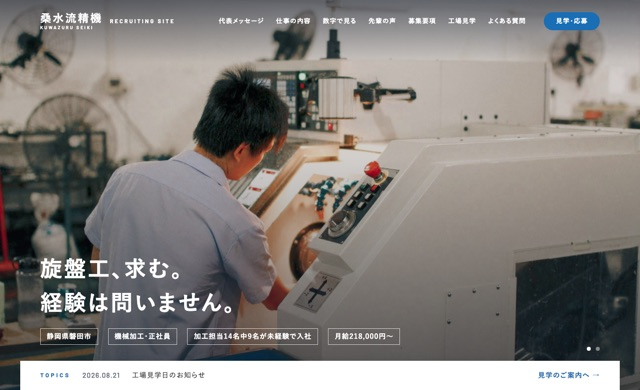
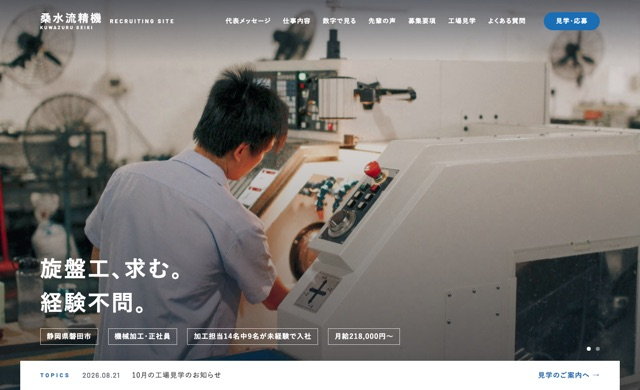
見本LPの町工場の本文を、同業の採用ページの言い回しに合わせて書き直す

Changed region(s): [[0.125, 0.7385, 0.375, 0.8], [0.1875, 0.9538, 0.3438, 0.9846], [0.3438, 0.0308, 0.4688, 0.0615]]

diff --git a/lp-samples/sample6/index.html b/lp-samples/sample6/index.html
@@ -9,7 +9,7 @@
 <meta property="og:type" content="website">
 <meta property="og:site_name" content="桑水流精機 採用サイト">
 <meta property="og:title" content="採用情報｜桑水流精機株式会社｜RECRUITING SITE">
-<meta property="og:description" content="旋盤工、求む。経験は問いません。磐田の町工場で機械加工の仲間を募集しています。">
+<meta property="og:description" content="旋盤工、求む。経験不問。磐田の町工場で機械加工の仲間を募集しています。">
 <meta name="twitter:card" content="summary">
 <link rel="icon" href="https://cdn.jsdelivr.net/npm/@fortawesome/fontawesome-free@6.7.2/svgs/solid/gear.svg" type="image/svg+xml">
 <link rel="stylesheet" href="https://cdnjs.cloudflare.com/ajax/libs/font-awesome/6.7.2/css/all.min.css" integrity="sha512-Evv84Mr4kqVGRNSgIGL/F/aIDqQb7xQ2vcrdIwxfjThSH8CSR7PBEakCr51Ck+w+/U6swU2Im1vVX0SVk9ABhg==" crossorigin="anonymous" referrerpolicy="no-referrer">
@@ -303,7 +303,7 @@ h1,h2,h3,.box p,.stats-note,.txtarea p,.number--item p,.post-people p,.p-welfare
     <a class="header--logo" href="#top"><b>桑水流精機<small>KUWAZURU SEIKI</small></b><span>RECRUITING SITE</span></a>
     <nav class="gnav--menu" id="gnav" aria-label="ページ内の案内">
       <a class="gnav--link" href="#message">代表メッセージ</a>
-      <a class="gnav--link" href="#work">仕事の内容</a>
+      <a class="gnav--link" href="#work">仕事内容</a>
       <a class="gnav--link" href="#number">数字で見る</a>
       <a class="gnav--link" href="#people">先輩の声</a>
       <a class="gnav--link" href="#recruit">募集要項</a>
@@ -325,23 +325,23 @@ h1,h2,h3,.box p,.stats-note,.txtarea p,.number--item p,.post-people p,.p-welfare
     <div class="pagination" aria-hidden="true"><span class="item is-active"></span><span class="item"></span></div>
   </div>
   <div class="hero-txtwrap">
-    <h1>旋盤工、求む。<br>経験は問いません。</h1>
+    <h1>旋盤工、求む。<br>経験不問。</h1>
     <ul class="hero--txt"><li>静岡県磐田市</li><li>機械加工・正社員</li><li>加工担当<span class="nw">14名</span>中<span class="nw">9名</span>が未経験で入社</li><li>月給218,000円〜</li></ul>
   </div>
 </section>
 
 <div class="topic_area">
-  <b>TOPICS</b><time datetime="2026-08-21">2026.08.21</time><p>工場見学日のお知らせ</p><a href="#visit">見学のご案内へ →</a>
+  <b>TOPICS</b><time datetime="2026-08-21">2026.08.21</time><p>10月の工場見学のお知らせ</p><a href="#visit">見学のご案内へ →</a>
 </div>
 
 <section class="section_pdg-sm" id="message">
   <div class="inner section_half">
     <figure class="imgarea js-scroll animation"><img src="img/boss.jpg" alt="つなぎ姿の代表取締役、桑水流徹" loading="lazy"></figure>
     <div class="txtarea js-scroll animation">
-      <h2 class="mgn-btm32"><span class="decoration_ttl">Message</span><span class="heading-2">先輩の多くも<br>最初は未経験でした。</span></h2>
-      <p>当社は、磐田で旋盤を回している町工場です。削っている部品の大半は、建設機械の油圧<span class="nw">シリンダー</span>に使うものです。油圧<span class="nw">ショベル</span>の腕も、<span class="nw">このシリンダーで</span>動いています。</p>
-      <p>難しそうに聞こえるかもしれませんが、<span class="nw">前の仕事が</span>介護や運送、飲食だった人たちが、いまこの部品を削っています。入社後は、<span class="nw">決まった先輩が</span>1人付いて安全<span class="nw">ルール</span>と図面の読み方から教えます。機械を<span class="nw">1台</span>任せるのは、半年ほどたってからです。</p>
-      <p>旋盤が初めてで不安な方は、まず<a href="#visit">工場を見に来てください</a>。応募するかどうかは、<span class="nw">そのあとで</span><span class="nw">決めていただいて</span>構いません。</p>
+      <h2 class="mgn-btm32"><span class="decoration_ttl">Message</span><span class="heading-2">先輩の多くは<br>未経験からの<span class="nw">スタート</span>でした。</span></h2>
+      <p>私たち桑水流精機は、静岡県磐田市で建設機械や農業機械の油圧部品を削っている町工場です。削った部品の大半は、工事現場で見かける油圧<span class="nw">ショベル</span>の<span class="nw">アーム</span>などを動かす油圧<span class="nw">シリンダー</span>に組み込まれます。</p>
+      <p>難しそうに聞こえるかもしれませんが、いまこの部品を削っている社員の多くは、介護や運送、飲食などの仕事から転職してきました。入社後は教育係の先輩が1人つき、安全<span class="nw">ルール</span>と図面の読み方から教えます。機械を<span class="nw">1台</span>任せるまでには、半年ほどかけます。</p>
+      <p>旋盤が初めてで不安な方は、まずは<a href="#visit">工場を見に来てください</a>。応募するかどうかは、そのあとで決めていただいて構いません。皆さんにお会いできるのを楽しみにしています。</p>
       <p class="message__sign">代表取締役<b>桑水流 徹</b></p>
     </div>
   </div>
@@ -351,8 +351,8 @@ h1,h2,h3,.box p,.stats-note,.txtarea p,.number--item p,.post-people p,.p-welfare
   <div class="inner section_half">
     <figure class="imgarea js-scroll animation"><img src="img/parts.jpg" alt="めねじを加工した鋼のブッシュ" loading="lazy"></figure>
     <div class="txtarea js-scroll animation">
-      <h2 class="mgn-btm32"><span class="decoration_ttl">Company</span><span class="heading-2">県内の取引先<span class="nw">3社</span>から<br>仕事をいただいています。</span></h2>
-      <p><span class="nw">3社</span>のうち<span class="nw">1社</span>とは、<span class="nw">1974年</span>からのお付き合いです。<span class="nw">ピストン</span>や<span class="nw">ブッシュ</span>（軸を受ける筒形の部品）など、建設機械と農業機械に使う油圧部品を削っています。</p>
+      <h2 class="mgn-btm32"><span class="decoration_ttl">Company</span><span class="heading-2">地元の取引先から<br>長く仕事をいただいています。</span></h2>
+      <p>仕事をいただいている取引先はすべて県内の会社で、そのうち<span class="nw">1社</span>とは、<span class="nw">1974年</span>から<span class="nw">50年</span>以上のお付き合いが続いています。削っているのは、<span class="nw">ピストン</span>や<span class="nw">ブッシュ</span>などの油圧部品です。</p>
       <div class="related-links">
         <a class="btn-line" href="#company-info">所在地と連絡先</a>
       </div>
@@ -364,15 +364,15 @@ h1,h2,h3,.box p,.stats-note,.txtarea p,.number--item p,.post-people p,.p-welfare
   <div class="inner section_half">
     <figure class="imgarea js-scroll animation"><img src="img/work.jpg" alt="NC旋盤で加工する段付き軸" loading="lazy"></figure>
     <div class="txtarea js-scroll animation">
-      <h2 class="mgn-btm32"><span class="decoration_ttl">Work</span><span class="heading-2">削る部品は<br><span class="nw">1日</span>に<span class="nw">1〜2回</span>替わります。</span></h2>
-      <p><span class="nw">2025年</span>度の平均で月に<span class="nw">約4万個</span>の部品を削っていますが、<span class="nw">同じ品番</span>（部品の種類ごとの<span class="nw">番号）を</span>続けて削る数は、多くの場合<span class="nw">50個</span>から<span class="nw">200個</span>です。<span class="nw">削り終えたら</span>、<span class="nw">次の品番に</span>合わせて、材料を固定する<span class="nw">治具（じぐ）と</span>刃物を替えます。この作業を段取り替えといい、1人あたり<span class="nw">1日</span>に<span class="nw">1〜2回</span>あります。</p>
-      <p>慣れてくると1人で<span class="nw">3台</span>を受け持ち、<span class="nw">1台</span>が部品を削っている間に別の機械の段取りを進めます。<span class="nw">同じ作業だけで</span>終わる日はありません。</p>
+      <h2 class="mgn-btm32"><span class="decoration_ttl">Work</span><span class="heading-2">削る部品は<br>毎日替わります。</span></h2>
+      <p>工場全体では<span class="nw">2025年</span>度の平均で月に約4万個の部品を削っていますが、1つの品番あたりの数は、多くの場合<span class="nw">50個</span>から<span class="nw">200個</span>です。削り終えたら次の品番に合わせて、材料を固定する治具（じぐ）と刃物を付け替えます。この「段取り替え」が、1人あたり<span class="nw">1日</span>に<span class="nw">1〜2回</span>あります。</p>
+      <p>慣れてくると1人で<span class="nw">3台</span>の機械を受け持ち、<span class="nw">1台</span>が削っている間に別の機械の段取りを進めます。</p>
     </div>
   </div>
   <div class="inner imgs">
-    <figure class="js-scroll animation"><img src="img/nc.jpg" alt="マシニングセンタのエンドミルが、金属のブロックの上面を削るところ" loading="lazy"><figcaption>旋盤が材料を回して削るのに対し、<span class="nw">マシニングセンタ</span>は刃物を回して、鋼や鋳鉄の<span class="nw">ブロック</span>を削ります。</figcaption></figure>
-    <figure class="js-scroll animation"><img src="img/inspect.jpg" alt="三次元測定機の測定子と、リング状の金属部品" loading="lazy"><figcaption>許される<span class="nw">誤差（公差）が</span>±0.01mmの部品もあります。削った部品の一部を出荷の前に抜き取り、検査室の測定機で測ります。</figcaption></figure>
-    <figure class="js-scroll animation"><img src="img/coolant.jpg" alt="マシニングセンタのエンドミルと切削油の流れ" loading="lazy"><figcaption>切削油（刃物と材料を冷やす<span class="nw">油）のかけ方で</span>、<span class="nw">仕上がりが</span>変わります。うまくかかっているかどうかは、削る音でも分かります。</figcaption></figure>
+    <figure class="js-scroll animation"><img src="img/nc.jpg" alt="マシニングセンタのエンドミルが、金属のブロックの上面を削るところ" loading="lazy"><figcaption><span class="nw">マシニングセンタ</span>では、回転する刃物で鋼や鋳鉄の<span class="nw">ブロック</span>を削ります。</figcaption></figure>
+    <figure class="js-scroll animation"><img src="img/inspect.jpg" alt="三次元測定機の測定子と、リング状の金属部品" loading="lazy"><figcaption>部品の中には、±0.01mmの精度が求められるものもあります。出荷の前には、削った部品の一部を抜き取って検査室の測定機で測ります。</figcaption></figure>
+    <figure class="js-scroll animation"><img src="img/coolant.jpg" alt="マシニングセンタのエンドミルと切削油の流れ" loading="lazy"><figcaption>仕上がりは、刃物と材料を冷やす切削油のかけ方ひとつで変わります。油がうまくかかっているかどうかは、削る音でも分かります。</figcaption></figure>
   </div>
 </section>
 
@@ -381,13 +381,13 @@ h1,h2,h3,.box p,.stats-note,.txtarea p,.number--item p,.post-people p,.p-welfare
     <h2><span class="decoration_ttl">Number</span><span class="heading-2">数字で見る桑水流精機</span></h2>
     <div class="p-number__table">
       <div class="number--item js-scroll animation"><i class="fa-solid fa-industry" aria-hidden="true"></i><p class="p-number__table__title">創業</p><p class="num">1968<small>年</small></p><p>磐田で<span class="nw">58年</span>。</p></div>
-      <div class="number--item js-scroll animation"><i class="fa-solid fa-users" aria-hidden="true"></i><p class="p-number__table__title">従業員数</p><p class="num">34<small>名</small></p><p>加工担当<span class="nw">14名</span>、検査担当<span class="nw">6名</span>、生産管理・営業・総務ほか<span class="nw">14名</span>。</p></div>
-      <div class="number--item js-scroll animation"><i class="fa-solid fa-user-plus" aria-hidden="true"></i><p class="p-number__table__title">未経験からの入社</p><p class="num">9<small>名</small></p><p>加工担当<span class="nw">14名</span>のうちの<span class="nw">9名</span>です。前職は介護、運送、飲食などです。</p></div>
+      <div class="number--item js-scroll animation"><i class="fa-solid fa-users" aria-hidden="true"></i><p class="p-number__table__title">従業員数</p><p class="num">34<small>名</small></p><p>加工担当<span class="nw">14名</span>、検査担当<span class="nw">6名</span>、生産管理・営業・総務などで<span class="nw">14名</span>。</p></div>
+      <div class="number--item js-scroll animation"><i class="fa-solid fa-user-plus" aria-hidden="true"></i><p class="p-number__table__title">未経験からの入社</p><p class="num">9<small>名</small></p><p>加工担当<span class="nw">14名</span>のうち<span class="nw">9名</span>で、前職は介護や運送、飲食などです。</p></div>
       <div class="number--item js-scroll animation"><i class="fa-solid fa-calendar-days" aria-hidden="true"></i><p class="p-number__table__title">年間休日</p><p class="num">122<small>日</small></p><p><span class="nw">2026年</span>度の予定です。</p></div>
-      <div class="number--item js-scroll animation"><i class="fa-solid fa-clock" aria-hidden="true"></i><p class="p-number__table__title">残業</p><p class="num">11<small>時間／月平均</small></p><p><span class="nw">2025年</span>度の<span class="nw">全社員平均</span>です。月ごとの平均がいちばん多かった月でも<span class="nw">25時間</span>でした。</p></div>
+      <div class="number--item js-scroll animation"><i class="fa-solid fa-clock" aria-hidden="true"></i><p class="p-number__table__title">残業</p><p class="num">11<small>時間／月平均</small></p><p><span class="nw">2025年</span>度の<span class="nw">全社員平均</span>です。いちばん多かった月でも、平均は<span class="nw">25時間</span>でした。</p></div>
       <div class="number--item js-scroll animation"><i class="fa-solid fa-calendar-check" aria-hidden="true"></i><p class="p-number__table__title">有給取得</p><p class="num">13.2<small>日／年平均</small></p><p><span class="nw">2025年</span>度の<span class="nw">全社員平均</span>です。</p></div>
     </div>
-    <p class="stats-note">人数は<span class="nw">2026年8月</span>時点の数字です。</p>
+    <p class="stats-note">人数は<span class="nw">2026年8月</span>時点です。</p>
   </div>
 </section>
 
@@ -396,9 +396,9 @@ h1,h2,h3,.box p,.stats-note,.txtarea p,.number--item p,.post-people p,.p-welfare
     <h2><span class="decoration_ttl">People</span><span class="heading-2">先輩の声</span></h2>
   </div>
   <div class="inner posts-people">
-    <div class="post-people js-scroll animation"><img src="img/worker_a.jpg" alt="青いヘルメットとマスクを着けて作業台に向かう社員" loading="lazy"><p class="people-info">加工担当｜<span class="nw">2022年</span>入社｜<span class="nw">前職／介護</span></p><h3><span class="nw">刃が欠ける前の音が</span>分かるようになりました。</h3><p>前の仕事は夜勤のある介護で、生活の<span class="nw">リズム</span>を整えたくて、日勤だけの<span class="nw">この工場へ</span>転職しました。最初の<span class="nw">3か月</span>は、機械の音がぜんぶ同じに聞こえていました。隣にはいつも先輩がいたので、分からないことは<span class="nw">その場で</span>聞いて覚えました。</p></div>
-    <div class="post-people js-scroll animation"><img src="img/worker_b.jpg" alt="ノギスで旋削部品の外径を測る社員" loading="lazy"><p class="people-info">加工担当｜<span class="nw">2023年</span>入社｜<span class="nw">前職／運送</span></p><h3>急かされずに、<span class="nw">1台</span>ずつ。</h3><p>運送の仕事で腰を痛めて、重いものを運ばない職場を探していました。入社の決め手は、工場見学で削りたての部品を手に取らせてもらったことです。手で運ぶ部品はこのくらいの重さで、それより重いものは<span class="nw">クレーン</span>で動かすと聞きました。<span class="nw">2台</span>目を任されたのは、入社して<span class="nw">1年</span>ほどたってからでした。もっと早く覚えろと急かされると思っていたので、<span class="nw">ほっとしました。</span><span class="nw">4年</span>目のいまは<span class="nw">3台</span>を<span class="nw">受け持っています。</span></p></div>
-    <div class="post-people js-scroll animation"><img src="img/worker_c.jpg" alt="測定具を薄い板に当てる社員の手元" loading="lazy"><p class="people-info">検査担当｜<span class="nw">2021年</span>入社｜<span class="nw">前職／組立</span></p><h3>交替勤務から日勤の毎日へ。</h3><p>入社後は検査に配属され、最初は測定具の当て方が安定せず、同じ部品を何度も測り直しました。いまでは出荷検査を1人でできるようになりました。以前は3交替の工場で組立をしていましたが、ここは日勤なので、<span class="nw">平日の夜も</span>家族との時間が持てます。</p></div>
+    <div class="post-people js-scroll animation"><img src="img/worker_a.jpg" alt="青いヘルメットとマスクを着けて作業台に向かう社員" loading="lazy"><p class="people-info">加工担当｜<span class="nw">2022年</span>入社｜<span class="nw">前職／介護</span></p><h3><span class="nw">刃が欠ける前の音が</span>分かるようになりました。</h3><p>介護の仕事は夜勤があったので、生活の<span class="nw">リズム</span>を整えたくて、日勤だけのこの会社に転職しました。最初の<span class="nw">3か月</span>は、機械の音がどれも同じに聞こえていました。それでも、いつも隣に先輩がいたので、分からないことはその場で聞いて覚えられました。いまは刃が欠けそうになると、音の違いで分かります。</p></div>
+    <div class="post-people js-scroll animation"><img src="img/worker_b.jpg" alt="ノギスで旋削部品の外径を測る社員" loading="lazy"><p class="people-info">加工担当｜<span class="nw">2023年</span>入社｜<span class="nw">前職／運送</span></p><h3>焦らず<span class="nw">1台</span>ずつ覚えられました。</h3><p>運送の仕事で腰を痛めてしまい、重いものを運ばずに済む職場を探していました。入社の決め手は工場見学です。削りたての部品を持たせてもらいながら、「手で運ぶのはこのくらいまで、重いものは<span class="nw">クレーン</span>を使います」と聞いて、ここなら腰を気にせず働けると思いました。入社前は、早く覚えろと急かされるのではと心配していました。実際には、<span class="nw">2台</span>目を任されたのは入社して<span class="nw">1年</span>ほどたってからで、自分の<span class="nw">ペース</span>で覚えられました。<span class="nw">4年</span>目のいまは<span class="nw">3台</span>を受け持っています。</p></div>
+    <div class="post-people js-scroll animation"><img src="img/worker_c.jpg" alt="測定具を薄い板に当てる社員の手元" loading="lazy"><p class="people-info">検査担当｜<span class="nw">2021年</span>入社｜<span class="nw">前職／組立</span></p><h3>平日の夜も家族と過ごせるようになりました。</h3><p>検査の仕事は初めてで、最初は測定具をうまく当てられず、同じ部品を何度も測り直していましたが、いまでは出荷検査も1人でできるようになりました。前は3交替の工場で組立をしていたので、日勤だけになって、平日の夜も家族と過ごせるのがうれしいです。</p></div>
   </div>
 </section>
 
@@ -408,10 +408,10 @@ h1,h2,h3,.box p,.stats-note,.txtarea p,.number--item p,.post-people p,.p-welfare
   </div>
   <div class="inner">
     <ol class="flow">
-      <li class="js-scroll animation"><time><span class="nw">8:00</span></time><p>朝礼。その日に削る品番と、気をつける寸法を確かめます。</p></li>
-      <li class="js-scroll animation"><time><span class="nw">8:10</span></time><p>午前の加工。前日から続く品番は、段取りを<span class="nw">確かめてから</span><span class="nw">削り始めます。</span></p></li>
+      <li class="js-scroll animation"><time><span class="nw">8:00</span></time><p>朝礼。その日に削る品番と、気をつける寸法を確認します。</p></li>
+      <li class="js-scroll animation"><time><span class="nw">8:10</span></time><p>午前の加工。前日から続く品番は、段取りを確認してから削り始めます。</p></li>
       <li class="js-scroll animation"><time><span class="nw">12:00</span></time><p>昼休み<span class="nw">45分</span>。お弁当を持ってくる人が多いです。</p></li>
-      <li class="js-scroll animation"><time><span class="nw">12:45</span></time><p>午後の加工。段取り替えの多くは、<span class="nw">この時間に</span>行います。</p></li>
+      <li class="js-scroll animation"><time><span class="nw">12:45</span></time><p>午後の加工。段取り替えは、たいていこの時間に行います。</p></li>
       <li class="js-scroll animation"><time><span class="nw">16:40</span></time><p>片づけをして、翌日の刃物を準備します。</p></li>
       <li class="js-scroll animation"><time><span class="nw">17:00</span></time><p>終業。残業がある日は月に<span class="nw">4日</span>ほどです。</p></li>
     </ol>
@@ -425,11 +425,11 @@ h1,h2,h3,.box p,.stats-note,.txtarea p,.number--item p,.post-people p,.p-welfare
   </div>
   <div class="inner">
     <dl class="p-training__flowBox js-scroll animation">
-      <div><dt><span class="nw">入社〜1か月</span></dt><dd><b>安全<span class="nw">ルール</span>と図面の読み方</b>測定具の使い方もこの期間に覚えます。<span class="nw">決まった先輩が</span>1人付いて教えます。</dd></div>
-      <div><dt><span class="nw">〜3か月</span></dt><dd><b>先輩と一緒に段取り替え</b>先輩の作業を隣で見たあと、刃物と治具を自分で替えます。</dd></div>
-      <div><dt><span class="nw">〜半年</span></dt><dd><b><span class="nw">1台</span>を受け持つ</b>段取りから、削った部品の測定までを担当します。困ったときは、機械を止めて先輩を呼びます。</dd></div>
-      <div><dt><span class="nw">〜1年</span></dt><dd><b><span class="nw">2台</span>を受け持つ</b>NC旋盤（<span class="nw">コンピューター</span>で動かす旋盤）の<span class="nw">プログラム</span>の手直しも、<span class="nw">この時期に</span>覚えます。</dd></div>
-      <div><dt><span class="nw">〜3年</span></dt><dd><b><span class="nw">3台</span>を受け持ち、新人を教える側へ</b>自分が教わったときと同じ順序で、<span class="nw">次の人に</span>教えます。</dd></div>
+      <div><dt><span class="nw">入社〜1か月</span></dt><dd><b>安全<span class="nw">ルール</span>と図面の読み方</b>教育係の先輩が<span class="nw">マンツーマン</span>で教え、測定具の使い方もあわせて覚えてもらいます。</dd></div>
+      <div><dt><span class="nw">〜3か月</span></dt><dd><b>先輩と一緒に段取り替え</b>先輩の作業を隣で見たあと、先輩に見てもらいながら刃物と治具を自分で替えます。</dd></div>
+      <div><dt><span class="nw">〜半年</span></dt><dd><b><span class="nw">1台</span>を受け持つ</b>段取りから、削った部品の測定までを担当し、困ったときは機械を止めて先輩を呼びます。</dd></div>
+      <div><dt><span class="nw">〜1年</span></dt><dd><b><span class="nw">2台</span>を受け持つ</b>NC旋盤を動かす<span class="nw">プログラム</span>の手直しも覚えます。</dd></div>
+      <div><dt><span class="nw">〜3年</span></dt><dd><b><span class="nw">3台</span>を受け持ち、新人を教える側へ</b>自分が教わったのと同じ順番で、新人に教えていきます。</dd></div>
     </dl>
   </div>
 </section>
@@ -439,7 +439,7 @@ h1,h2,h3,.box p,.stats-note,.txtarea p,.number--item p,.post-people p,.p-welfare
     <h2 class="c-title"><span class="decoration_ttl">Welfare</span><span class="c-title__sub">福利厚生</span></h2>
   </div>
   <div class="inner p-welfare__gallery">
-    <div class="p-welfare__item js-scroll animation"><i class="fa-solid fa-id-card" aria-hidden="true"></i><h3>資格取得費用は会社負担</h3><p><span class="nw">フォークリフト</span>と、<span class="nw">クレーン</span>に荷を掛ける玉掛けの技能講習が対象です。</p></div>
+    <div class="p-welfare__item js-scroll animation"><i class="fa-solid fa-id-card" aria-hidden="true"></i><h3>資格取得費用は会社負担</h3><p><span class="nw">フォークリフト</span>と玉掛け（<span class="nw">クレーン</span>に荷を掛ける作業）の技能講習が対象です。</p></div>
     <div class="p-welfare__item js-scroll animation"><i class="fa-solid fa-shirt" aria-hidden="true"></i><h3>作業服・安全靴・保護めがねを貸与</h3><p>作業服は夏用・冬用を各2着お貸しします。</p></div>
     <div class="p-welfare__item js-scroll animation"><i class="fa-solid fa-stethoscope" aria-hidden="true"></i><h3><span class="nw">年1回</span>の健康診断</h3><p>勤務時間内に受けられ、費用は会社が負担します。</p></div>
   </div>
@@ -451,10 +451,10 @@ h1,h2,h3,.box p,.stats-note,.txtarea p,.number--item p,.post-people p,.p-welfare
   </div>
   <div class="inner">
     <dl class="p-information__list js-scroll animation">
-      <div><dt>職種</dt><dd><b>機械加工</b>旋盤と<span class="nw">マシニングセンタ</span>で、段取りから加工までを担当します。中途採用で、雇用形態は正社員です。</dd></div>
+      <div><dt>職種</dt><dd><b>機械加工</b>旋盤と<span class="nw">マシニングセンタ</span>を使い、段取りから加工までを担当します。正社員（中途採用）の募集です。</dd></div>
       <div><dt>応募資格</dt><dd><b>学歴・年齢・経験は問いません</b>車か<span class="nw">バイク</span>で通勤できる方。車の場合、免許はAT限定でも構いません。</dd></div>
       <div><dt>募集人数</dt><dd><b><span class="nw">2名</span></b>応募は<span class="nw">2026年10月31日</span>まで受け付けます。期間内でも、採用予定人数に達し次第締め切ります。</dd></div>
-      <div><dt>給与</dt><dd><b>月給218,000円〜296,000円</b>経験と資格を考慮のうえ決定します。固定残業代は含みません。別途、通勤手当と、残業・休日出勤の<span class="nw">割増賃金を</span>支給します。</dd></div>
+      <div><dt>給与</dt><dd><b>月給218,000円〜296,000円</b>経験と資格を考慮のうえ決定します。固定残業代は含みません。通勤手当、残業手当、休日出勤手当は別途支給します。</dd></div>
       <div><dt>賞与</dt><dd><b><span class="nw">年2回</span></b>計<span class="nw">4.1か月分</span><span class="nw">（2025年度の実績・全社員平均）</span>。</dd></div>
       <div><dt>昇給</dt><dd><b><span class="nw">年1回</span>（4月）</b><span class="nw">2026年4月</span>の昇給額は、全社員の平均で月額<span class="nw">6,200円</span>でした。</dd></div>
       <div><dt>年収の例</dt><dd><b><span class="nw">約380万円</span></b>入社<span class="nw">3年</span>目・月給<span class="nw">236,000円</span>・賞与<span class="nw">4.1か月</span>の場合。残業代は含みません。賞与は<span class="nw">業績により</span><span class="nw">支給額が変わります。</span></dd></div>
@@ -462,18 +462,18 @@ h1,h2,h3,.box p,.stats-note,.txtarea p,.number--item p,.post-people p,.p-welfare
       <div><dt>勤務時間</dt><dd><b><span class="nw">8:00〜17:00</span></b>休憩<span class="nw">75分</span>。全員が日勤で、交替勤務はありません。月平均残業時間は<span class="nw">11時間</span>（<span class="nw">2025年</span>度実績）です。</dd></div>
       <div><dt>休日</dt><dd><b><span class="nw">年間122日</span><span class="nw">（2026年度の会社カレンダー）</span></b>土日休み。祝日は出勤日で、その分をお盆・年末年始などの長期休暇にあてています。有給休暇は<span class="nw">半日単位</span>で取得できます。</dd></div>
       <div><dt>試用期間</dt><dd><b><span class="nw">3か月</span></b>期間中の給与と待遇は、本採用と同じです。</dd></div>
-      <div><dt>勤務地</dt><dd><b>本社工場のみ</b>静岡県磐田市にあり、転勤はありません。</dd></div>
-      <div><dt>通勤</dt><dd><b>車か<span class="nw">バイク</span>で通勤（駐車場<span class="nw">45台</span>）</b>駐車場は無料です。通勤手当は、<span class="nw">月30,000円</span>を上限に実費で支給します。</dd></div>
+      <div><dt>勤務地</dt><dd><b>本社工場（静岡県磐田市）</b>転勤はありません。</dd></div>
+      <div><dt>通勤</dt><dd><b><span class="nw">マイカー</span>・<span class="nw">バイク</span>通勤（無料駐車場<span class="nw">45台</span>）</b>通勤手当は、<span class="nw">月30,000円</span>を上限に実費を支給します。</dd></div>
       <div><dt>加入保険</dt><dd><b>各種社会保険</b>雇用保険・労災保険・健康保険・厚生年金保険に加入します。</dd></div>
       <div><dt>退職金</dt><dd><b>退職金制度あり</b><span class="nw">中小企業退職金共済</span>を利用しています。</dd></div>
       <div><dt>受動喫煙対策</dt><dd><b>屋内は禁煙</b>屋外に喫煙所があります。</dd></div>
-      <div><dt>応募の方法</dt><dd><b>この<span class="nw">ページ</span>の<span class="nw">フォーム</span>か、お電話で</b>お電話は採用担当（<span class="nw">0538-00-0000</span>）までお願いします。履歴書は面接の当日にお持ちいただくか、<span class="nw">本社工場の採用担当</span>あてにご郵送ください。手書きでも印刷でも構いません。写真は必要ありません。</dd></div>
+      <div><dt>応募の方法</dt><dd><b>この<span class="nw">ページ</span>の<span class="nw">フォーム</span>か、お電話で</b>お電話は採用担当（<span class="nw">0538-00-0000</span>）までお願いします。履歴書は面接の当日にお持ちいただくか、<span class="nw">本社工場の採用担当</span>あてにご郵送ください。手書きでも、<span class="nw">パソコン</span>で作成したものでも構いません。写真は必要ありません。</dd></div>
       <div><dt>選考の流れ</dt><dd><b>応募 → 面接<span class="nw">1回</span> → 結果のご連絡</b>見学当日の面接も可能です。結果は、面接日から1週間以内にご連絡します。</dd></div>
     </dl>
     <div class="p-information__flow js-scroll animation">
       <h3>労働条件の明示</h3>
       <dl>
-        <div><dt>業務の変更範囲</dt><dd>入社時は機械加工。変更の範囲は、検査・生産管理・受注・見積を含む会社の定める業務です。</dd></div>
+        <div><dt>業務の変更範囲</dt><dd>入社時は機械加工。変更の範囲は会社の定める業務で、検査・生産管理・受注・見積も含みます。</dd></div>
         <div><dt>就業場所の変更範囲</dt><dd>磐田市の本社工場のみです。</dd></div>
         <div><dt>雇用の期間</dt><dd>期間の定めはありません。</dd></div>
       </dl>
@@ -484,8 +484,8 @@ h1,h2,h3,.box p,.stats-note,.txtarea p,.number--item p,.post-people p,.p-welfare
 <section class="cta" id="visit">
   <div class="box js-scroll animation">
     <h2><span class="decoration_ttl">Visit</span><span class="heading-2">工場見学のご案内</span></h2>
-    <p>見学の日は機械が動いていますので、削っているところをご覧いただけます。<span class="nw">削る前の材料</span>と削ったあとの部品も、<span class="nw">その場で</span>手に取っていただけます。</p>
-    <p>各回<span class="nw">3名</span>まで、<span class="nw">1回</span><span class="nw">約80分</span>でご案内します。質疑応答では、給与や休日のこともご質問いただけます。</p>
+    <p>見学では、動いている機械が部品を削るところをご覧いただけるほか、削る前の材料と仕上がった部品も、その場で手に取っていただけます。</p>
+    <p><span class="nw">1回</span>の定員は<span class="nw">3名</span>で、所要時間は<span class="nw">約80分</span>です。質疑応答の時間には、給与や休日のことも遠慮なくご質問ください。</p>
     <ol class="p-factory1__time">
       <li><time><span class="nw">10:00</span></time>会社説明</li>
       <li><time><span class="nw">10:20</span></time>工場内見学</li>
@@ -497,7 +497,7 @@ h1,h2,h3,.box p,.stats-note,.txtarea p,.number--item p,.post-people p,.p-welfare
       <li><b>10/14（水）</b>残り<span class="nw">3名</span></li>
       <li><b>10/21（水）</b>残り<span class="nw">3名</span></li>
     </ul>
-    <p>動きやすい服装でお越しください。<span class="nw">保護めがね</span>・安全靴・耳栓は当社でご用意します。見学だけなら履歴書は必要ありません。工場内の撮影は、取引先との取り決めがあるためご遠慮ください。</p>
+    <p>保護めがね・安全靴・耳栓は当社でご用意しますので、動きやすい服装でお越しください。見学だけでしたら履歴書は必要ありません。工場内の撮影は、取引先との取り決めがあるためご遠慮ください。</p>
     <p>本社工場はJR磐田駅から車で<span class="nw">約12分</span>です。駅までお迎えにあがりますので、ご希望の方はお申し込みのときにお知らせください。</p>
     <a class="btn btn-color" href="#entry-form">工場見学に申し込む</a>
   </div>
@@ -509,9 +509,9 @@ h1,h2,h3,.box p,.stats-note,.txtarea p,.number--item p,.post-people p,.p-welfare
   </div>
   <div class="inner">
     <div class="p-qa__container">
-      <details class="p-qa__box js-scroll animation"><summary>未経験でも応募できますか？</summary><p>はい、応募できます。入社後は図面の読み方から始め、機械に触れるのは安全<span class="nw">ルール</span>を覚えてからです。</p></details>
+      <details class="p-qa__box js-scroll animation"><summary>未経験でも応募できますか？</summary><p>はい、応募できます。入社後は安全<span class="nw">ルール</span>と図面の読み方から覚え、機械に触れるのはそのあとです。</p></details>
       <details class="p-qa__box js-scroll animation"><summary>年齢制限はありますか？</summary><p>年齢制限はありません。実際に、<span class="nw">48歳</span>で入社した社員もいます。</p></details>
-      <details class="p-qa__box js-scroll animation"><summary>資格がなくても応募できますか？</summary><p>はい、応募できます。<span class="nw">フォークリフト</span>と玉掛けの資格は、入社してから技能講習を受けて取得できます。いまの加工担当は、<span class="nw">ほとんどが</span>入社後に取っています。</p></details>
+      <details class="p-qa__box js-scroll animation"><summary>資格がなくても応募できますか？</summary><p>はい、もちろん可能です。<span class="nw">フォークリフト</span>と玉掛けの資格は、入社してから技能講習を受けて取得できます。いま加工を担当している社員も、ほとんどが入社してから取得しています。</p></details>
       <details class="p-qa__box js-scroll animation"><summary>力仕事ですか？</summary><p>力仕事はほとんどありません。手で運ぶ部品は<span class="nw">5kg</span>以下で、それより重いものは<span class="nw">クレーン</span>で動かします。ただし、業務の大半は<span class="nw">立ち仕事</span>です。</p></details>
     </div>
   </div>
@@ -522,7 +522,7 @@ h1,h2,h3,.box p,.stats-note,.txtarea p,.number--item p,.post-people p,.p-welfare
     <h2 class="c-title"><span class="decoration_ttl">Entry</span><span class="c-title__sub">見学・応募・ご質問</span></h2>
   </div>
   <form class="job-entry-form js-scroll animation" id="apply-form">
-    <p class="contact--tel">見学・応募のお電話は採用担当（<span class="nw">0538-00-0000</span>）までお願いします。受付時間：平日<span class="nw">8:00〜17:00</span></p>
+    <p class="contact--tel">見学・応募のお電話は、採用担当（0538-00-0000）までお気軽にどうぞ。受付時間：平日<span class="nw">8:00〜17:00</span></p>
     <label for="f-name">お名前</label>
     <input id="f-name" type="text" autocomplete="name" required>
     <label for="f-contact">ご連絡先</label>
@@ -552,7 +552,7 @@ h1,h2,h3,.box p,.stats-note,.txtarea p,.number--item p,.post-people p,.p-welfare
     <label for="f-note">ご質問・ご要望（任意）</label>
     <textarea id="f-note"></textarea>
     <button class="btn btn-color" type="submit">送信する</button>
-    <p class="privacy-box">いただいた連絡先に、確定した見学日、面接の日程、ご質問への回答をお知らせします。お預かりした内容はこれらのご連絡にだけ使い、第三者には提供しません。採用に至らなかった場合、お預かりした内容は選考の終了から<span class="nw">6か月</span>後に消去します。本<span class="nw">ページ</span>の<span class="nw">フォーム</span>は見本のため、実際の送信はできません。</p>
+    <p class="privacy-box">いただいた連絡先に、確定した見学日、面接の日程、ご質問への回答をお知らせします。お預かりした内容はこれらのご連絡にだけ使い、第三者には提供しません。採用に至らなかった場合、その内容は選考の終了から<span class="nw">6か月</span>後に消去します。本<span class="nw">ページ</span>の<span class="nw">フォーム</span>は見本のため、実際の送信はできません。</p>
   </form>
 </section>
 
@@ -572,15 +572,15 @@ h1,h2,h3,.box p,.stats-note,.txtarea p,.number--item p,.post-people p,.p-welfare
       </dl>
     </div>
     <nav class="footer--nav" aria-label="フッターの案内">
-      <a href="#message">代表メッセージ</a><a href="#work">仕事の内容</a>
+      <a href="#message">代表メッセージ</a><a href="#work">仕事内容</a>
       <a href="#company">会社について</a><a href="#number">数字で見る</a>
-      <a href="#people">先輩の声</a><a href="#schedule">一日の流れ</a>
+      <a href="#people">先輩の声</a><a href="#schedule">加工担当の一日</a>
       <a href="#education">入社後の教育</a><a href="#welfare">福利厚生</a>
       <a href="#recruit">募集要項</a><a href="#visit">工場見学</a>
       <a href="#faq">よくある質問</a>
     </nav>
   </div>
-  <p class="pbl">桑水流精機は、架空の会社です。本<span class="nw">ページ</span>は採用<span class="nw">サイト</span>制作の見本です。住所や電話番号も架空です。写真は実写で、出典は<a href="img/credits.html">一覧</a>にまとめています。制作：常夜燈</p>
+  <p class="pbl">この<span class="nw">ページ</span>は採用<span class="nw">サイト</span>制作の見本です。桑水流精機は架空の会社で、住所と電話番号も架空のものです。写真は実写で、出典は<a href="img/credits.html">一覧</a>にまとめています。制作：常夜燈</p>
   <p class="copyright">© KUWAZURU SEIKI Co., Ltd.</p>
 </footer>
 
